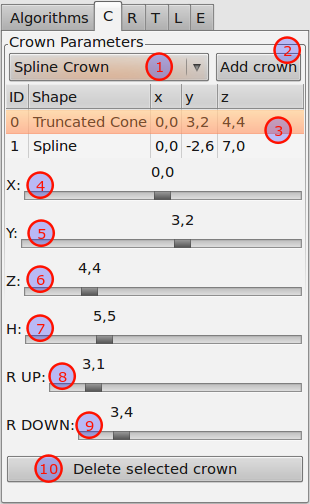
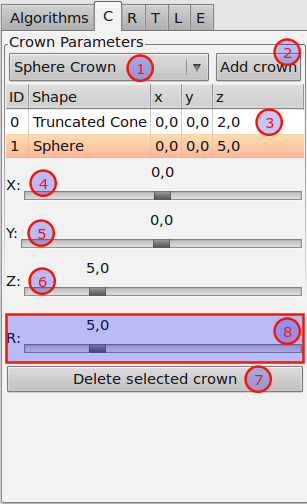
paper poprawki :)

diff --git a/latex/paper/04_dokumentacja.tex b/latex/paper/04_dokumentacja.tex
@@ -9,7 +9,7 @@
 
 \section{Eksport modelu}
 Ponieważ format danych używany w programie nie jest zgodny z powszechnie uznanymi formatami modeli trójwymiarowych, aby zachować kompatybilność należy przeprowadzić eksport modelu do 
-formatu zewnętrznego. Format .OBJ zgodnie wymaganiami jest obsługiwany przez program Blender.
+formatu zewnętrznego. Format .OBJ zgodnie z wymaganiami jest obsługiwany przez program Blender.
 Został on opracowany przez firmę Wavefront Technologies i ze względu na swoją prostotę stał się szybko
 popularny wśród programów do obróbki grafiki trójwymiarowej. Na format składa się plik tekstowy z rozszerzeniem .obj 
 zawierający opis geometrii obiektu. Dodatkowo format przewiduje odwołanie do pliku z rozszerzeniem .mtl zawierającym
@@ -52,14 +52,14 @@ się w kolejnych liniach mogących zawierać:
 \subsection{Procedura eksportu}
 Model drzewa jest eksportowany w dwóch etapach, jako dwie osobne grupy jednego obiektu. Pierwszą grupę stanowi pień drzewa, natomiast drugą jego liście.
 Pozwala to na użycie różnych tekstur dla tych elementów drzewa. Program grupuje współrzędne wierzchołków i tekstur by zmniejszyć rozmiar tworzonego pliku, a następnie
-zapisuje je do pliku \{models/tree0.obj\}. Dodatkowo program tworzy plik \{models/tree0.mtl\} zawierający opis materiałów i ścieżki do tekstur. 
+zapisuje je do pliku \{models/tree0.obj\}. Dodatkowo program tworzy plik \{models/tree0.mtl\} zawierający opis materiałów i ścieżek do tekstur. 
 \section{Opis interfejsu użytkownika}
 
 \subsection{Okno główne}
 \includegraphics[width=120mm]{images/gui/main_window.png}
 \begin{enumerate}
-	\item {Podgląd wygenerowanego drzewa.}
-	\item {Toolbar.}
+	\item {Podgląd wygenerowanego modelu drzewa.}
+	\item {Przybornik.}
 	\item {Panel z ustawieniami generatora.}
 \end{enumerate}
 
@@ -73,20 +73,20 @@ zapisuje je do pliku \{models/tree0.obj\}. Dodatkowo program tworzy plik \{model
 	\item {Nieaktywna korona.}
 \end{enumerate}
 
-\subsection{Toolbar}
+\subsection{Przybornik}
 \includegraphics[width=50mm]{images/gui/toolbar.png}
 \begin{enumerate}
-	\item {Resetuj konfigurację.}
-	\item {Wczytaj konfigurację.}
-	\item {Zapisz konfigurację.}
-	\item {Generuj nowy model.}
-	\item {Odśwież model.}
-	\item {Eksportuj model.}
+	\item {Resetuj konfigurację - ustawia domyślne wartości wszystkich parametrów.}
+	\item {Wczytaj konfigurację - wczytuje konfigurację programu z pliku. }
+	\item {Zapisz konfigurację - zapisuje konfigurację do pliku.}
+	\item {Generuj nowy model - tworzy nowy model na podstawie parametrów widocznych w zakładce \textit{Algorithms}, \textit{C}(ustawienia koron), \textit{T}(ustawienia dotyczące modelowania pnia), \textit{L}(ustawienia liści).}
+	\item {Odśwież model - model jest uaktualniany korzystając z parametrów zawartych w zakładce \textit{L} oraz \textit{T}. Nie jest wywoływany algorytm generowania drzewa.}
+	\item {Eksportuj model - model drzewa jest eksportowany do formatu OBJ. Tworzone są dwa pliki \textit{models/tree0.obj} oraz \textit{models/tree0.mtl}.}
 \end{enumerate}
 
 \subsection{Opcje algorytmu}
 \begin{tabular}{lr}
-\parbox[b]{95mm}{
+\parbox[c]{95mm}{
 \begin{enumerate}
 	\item {Wybór algorytmu generującego drzewo.}
 	\item {Ziarno generatora pseudo-losowego.}
@@ -96,31 +96,77 @@ zapisuje je do pliku \{models/tree0.obj\}. Dodatkowo program tworzy plik \{model
 	\item {Kill distance - odległość od atraktora do węzła drzewa po osiągnięciu której atraktor jest usuwany.}
 \end{enumerate}
 } &
-\includegraphics[width=35mm]{images/gui/algorithms_panel.png} \\
+\parbox[c]{35mm}{
+\includegraphics[width=35mm]{images/gui/algorithms_panel.png}
+}\\
 \end{tabular}
 
 
 
 \subsection{Opcje korony}
 \begin{tabular}{lr}
-\parbox[b]{95mm}{
+\parbox[c]{95mm}{
 \begin{enumerate}
-	\item {Typ korony (sfera, ścięty stożek, bryła obrotowa oparta o krzywą sklejalną trzeciego stopnia).}
-	\item {Dodaj koronę.}
-	\item {Lista dodanych koron.}
+	\item {Typ korony - do wyboru: sfera, ścięty stożek, \textit{spline crown}.}
+	\item {Dodaj koronę - dodaje koronę do generatora.}	
+	\item {Lista dodanych koron - koron może być więcej niż 1. Atraktory są rozmieszczane we wszystkich koronach z listy(w każdej jest identyczna liczba atraktorów równa $liczba\_atraktorów/liczba\_koron$).}
 	\item {Współrzędna X wybranej korony.}
 	\item {Współrzędna Y wybranej korony.}
 	\item {Współrzędna Z wybranej korony.}
-	\item {TODO widok dla każdego typu korony}
+	\item {Usuń wybraną koronę.}
+	\item {Parametry charakterystyczne dla każdego typu korony.}
 \end{enumerate}
 } &
-\includegraphics[width=35mm]{images/gui/crown_panel.png} \\
+\parbox[c]{35mm}{
+\includegraphics[width=35mm]{images/gui/crown_panel.png}
+}\\
 \end{tabular}
 
+\subsubsection{Sfera}
+\begin{tabular}{lr}
+\parbox[c]{95mm}{
+\begin{enumerate}
+	\item {Promień sfery.}
+\end{enumerate}
+} &
+\parbox[c]{35mm}{
+\includegraphics[width=35mm]{images/gui/sphere_crown.png}
+}\\
+\end{tabular}
+
+\subsubsection{Ścięty stożek}
+\begin{tabular}{lr}
+\parbox[c]{95mm}{
+\begin{enumerate}
+	\item {Wysokość.}
+	\item {Promień górnej podstawy.}
+	\item {Promień dolnej podstawy.}
+\end{enumerate}
+} &
+\parbox[c]{35mm}{
+\includegraphics[width=35mm]{images/gui/truncated_cone_crown.png}
+}\\
+\end{tabular}
+
+\subsubsection{\textit{Spline crown}}
+\begin{tabular}{lr}
+\parbox[c]{95mm}{
+\begin{enumerate}
+	\item {Lista z węzłami interpolującymi.}
+	\item {Dodaj węzeł interpolujący.}
+	\item {Usuń węzeł interpolujący.}
+	\item {Współrzędna X wybranego węzła interpolującego.}
+	\item {Współrzędna Y wybranego węzła interpolującego.}
+\end{enumerate}
+} &
+\parbox[c]{35mm}{
+\includegraphics[width=35mm]{images/gui/spline_crown.png}
+}\\
+\end{tabular}
 
 \subsection{Opcje wyświetlania}
 \begin{tabular}{lr}
-\parbox[b]{95mm}{
+\parbox[c]{95mm}{
 \begin{enumerate}
 	\item {Wyświetla dodane korony.}
 	\item {Wyświetla liście.}
@@ -128,27 +174,39 @@ zapisuje je do pliku \{models/tree0.obj\}. Dodatkowo program tworzy plik \{model
 	\item {Wyświetla trawę.}
 \end{enumerate}
 } &
-\includegraphics[width=35mm]{images/gui/rendering_panel.png}\\
+\parbox[c]{35mm}{
+\includegraphics[width=35mm]{images/gui/rendering_panel.png}
+}\\
 \end{tabular}
 
 \subsection{Opcje pnia}
+
+\begin{threeparttable}
+
 \begin{tabular}{lr}
-\parbox[b]{95mm}{
+\parbox[c]{95mm}{
 \begin{enumerate}
-	\item {Współczynnik $radius factor$. Wpływa na grubość pnia przy łączeniu gałęzi.}
-	\item {Współczynnik $a$.}
-	\item {Współczynnik $m$.}
+	\item {Współczynnik $radius factor$. Wpływa na grubość pnia przy łączeniu gałęzi. $\tnote{1}$}
+	\item {Współczynnik $a$.$\tnote{1}$}
+	\item {Współczynnik $m$.$\tnote{1}$}
 	\item {Liczba punktów tworzących segment.}
 	\item {Liczba tekstur potrzebną do owinięcia pnia.}
 	\item {Stosunek rozmiaru tekstury do odległości mierzonej wzdłuż pnia.}
 \end{enumerate}
 } &
-\includegraphics[width=35mm]{images/gui/trunk_panel.png}\\
+\parbox[c]{35mm}{
+\includegraphics[width=35mm]{images/gui/trunk_panel.png}
+}\\
 \end{tabular}
+\begin{tablenotes}
+	\item[1] Wpływ współczynników na wygląd pnia dokładnie opisany w podrozdziale \ref{subsec:node_model} na stronie \pageref{subsec:node_model}.
+\end{tablenotes}
+
+\end{threeparttable}
 
 \subsection{Opcje liści}
 \begin{tabular}{lr}
-\parbox[b]{95mm}{
+\parbox[c]{95mm}{
 \begin{enumerate}
 	\item {Liczba liści doczepianych do wygenerowanego modelu.}
 	\item {Lista rodzajów liści.}
@@ -158,7 +216,9 @@ zapisuje je do pliku \{models/tree0.obj\}. Dodatkowo program tworzy plik \{model
 	\item {Dodawanie nowego typu liścia.}
 \end{enumerate}
 } &
-\includegraphics[width=35mm]{images/gui/leaves_panel.png}\\
+\parbox[c]{35mm}{
+\includegraphics[width=35mm]{images/gui/leaves_panel.png}
+}\\
 \end{tabular}
 
 
@@ -166,18 +226,20 @@ zapisuje je do pliku \{models/tree0.obj\}. Dodatkowo program tworzy plik \{model
 
 \subsection{Edytor}
 \begin{tabular}{lr}
-\parbox[b]{95mm}{
+\parbox[c]{95mm}{
 \begin{enumerate}
-	\item {Tryb zaznaczania gałęzi - odpowiednio: cała gałęź, od punktu do końca gałęzi oraz od punktu do punktu}
-	\item {Zastosuj dla wszystkich dzieci - edycji podlegają też gałęzie wychodzące z edytowanego fragmentu}
-	\item {Przycinanie gałęzi}
-	\item {Wygładzanie gałęzi (zwiększana jest rozdzielczość gałęzi)}
-	\item {Zmniejszanie gałęzi}
-	\item {Dociążanie gałęzi}
-	\item {Działanie przeciwne do opcji 6}
+	\item {Tryb zaznaczania gałęzi - odpowiednio: cała gałęź, od punktu do końca gałęzi oraz od punktu do punktu.}
+	\item {Zastosuj dla wszystkich dzieci - edycji podlegają też gałęzie wychodzące z edytowanego fragmentu i dalej rekursywnie wszyscy potomkowie.}
+	\item {Przycinanie gałęzi.}
+	\item {Wygładzanie gałęzi - gałęzie są modyfikowane przy użyciu algorytmu Chaikina.}
+	\item {Zmniejszanie rozdzielczości gałęzi - co drugi węzeł gałęzi jest usuwany. Gałęzie wychodzące z usuwanych węzłów są przesuwane do węzłów położonych niżej.}
+	\item {Dociążanie gałęzi - od współrzędnej $Z$ danego węzła jest odejmowana pewna stała, która rośnie wprost proporcjonalnie do odległości węzła od osi drzewa.}
+	\item {Odciązanie gałęzi - analogicznie do opcji 6.}
 \end{enumerate}
 } &
-\includegraphics[width=35mm]{images/gui/editor_panel.png} \\
+\parbox[c]{35mm}{
+\includegraphics[width=35mm]{images/gui/editor_panel.png}
+}\\
 \end{tabular}
 
 \section{Kompilacja projektu}

diff --git a/latex/paper/03_teoria.tex b/latex/paper/03_teoria.tex
@@ -7,7 +7,7 @@ Dynamiczny rozwój grafiki komputerowej obserwujemy od roku 1950 kiedy to w Mass
 komputer wyposażony w grafoskop. Obecnie większość użytkowników nie potrafi sobie wyobrazić komputera bez graficznego interfejsu.
 Coraz większe możliwości nowoczesnych komputerów są motorem napędowym rozmaitych badań nad komputerowymi modelami świata rzeczywistego.
 
-Prekursorem w dziedzinie wizualizacji drzew był polski matematyk Stanisław Ulam, przedstawiajac w 1962r. \cite{ulam} drzewo jako samoorganizującą się
+Prekursorem w dziedzinie wizualizacji drzew był polski matematyk Stanisław Ulam, przedstawiając w 1962r. \cite{ulam} drzewo jako samoorganizującą się
 strukturę. Jego model wykorzystujący automaty komórkowe opierał się na rywalizacji węzłów  drzewa o przestreń.
 Honda zaproponował w 1971r. modelowanie drzew jako stuktury rekursywnej opisanej
 zbiorem parametrów takich jak kąt rozgałęzień, czy stosunek długości między kolejnymi poziomami rekurencji \cite{honda}.
@@ -20,7 +20,7 @@ przedstawiająca proces modelowania klonu. Podejście do tematu możemy podzieli
 \item od szczegółu do ogółu, czyli opisanie pewnym zbiorem parametrów budowy drzewa
 \end{itemize}
 Problem stworzenia modelu drzewa możemy podzielić na stworzenie modeli jego składowych np. gałęzi, kory, liści, czy kwiatów i późniejsze
-ich połączenie w jedną całość. Na chwilę obecną istnieją zaawansowane metody generowania zarówno całych drzew, jak i poszczególnych jego części.
+ich połączenie w całość. Na chwilę obecną istnieją zaawansowane metody generowania zarówno całych drzew, jak i poszczególnych jego części.
 
 \section{Generowanie struktury drzewa}
 Generowanie drzewa przebiega w następujących etapach:
@@ -91,6 +91,9 @@ Rośliny, w szczególności drzewa, są bardzo złożonymi strukturami. Projektu
 
 
 \subsection{Model węzła}
+
+\label{subsec:node_model}
+
 Węzeł charakteryzuje się dwoma parametrami: położeniem(P) oraz promieniem(R). Na ich podstawie wyliczany jest segment, który składa się z przynajmniej 3 punktów leżących na okręgu o środku w punkcie P i promieniu R. Wektor normalny do płaszczyzny tworzonej przez punkty segmentu oraz punkt P jest wyliczany w następujący sposób: $\vec{n}=\frac{\vec{AP}}{|\vec{AP}|}+\frac{\vec{PB}}{|\vec{PB}|}$, gdzie A - poprzednik P; B - następnik P. Jeśli węzeł A lub B nie istnieje, to odpowiednio pierwszy lub drugi składnik sumy przyjmuje wartość 0.
 
 Promień danego węzła jest wyznaczany w nastepujący sposób:
@@ -148,7 +151,7 @@ Wektor normalny jest wyznaczany na podstawie położenia liścia względem punkt
 
 
 
-Liście są rozkładane są na gałęziach w sposób losowy, przy czym rozkład nie jest równomierny. Prawdopodobieństwo umiejscowienia liścia na końcu gałęzi jest znacznie większe niż na początku. Efekt ten uzyskaliśmy w następujący sposób: $node\_id = \lceil\sqrt{rand()}*(nodes\_length-1)\rceil$.
+Liście są rozkładane na gałęziach w sposób losowy, przy czym rozkład nie jest równomierny. Prawdopodobieństwo umiejscowienia liścia na końcu gałęzi jest znacznie większe niż na początku. Efekt ten uzyskaliśmy w następujący sposób: $node\_id = \lceil\sqrt{rand()}*(nodes\_length-1)\rceil$.
 
 \begin{description}
 	\item[node\_id] indeks węzła w danej gałęzi, do którego zostanie doczepiony liść
@@ -216,14 +219,31 @@ Algorytm Chaikina w podstawowej wersji dla każdego punktu do wyznaczenia wierzc
 	\label{chaikin_branch}
 \end{center}
 
-\subsection{Korona - TODO}
-Algorytm kolonizacyjny w pierwszym kroku rozmieszcza atraktory wewnątrz danej podprzestrzenii, która to determinuje swoim kształtem wygląd wygenerowango drzewa. Wybór typu korony został ograniczony do 3 kształtów.
-\begin{itemize}
-	\item{sfera - możliwość zmiany promienia}
-	\item{ścięty stożek - możliwość zmiany wysokości oraz promiania dolnej i górnej podstawy}
-	\item{\textit{spline crown} - korona tworzona na skutek obrotu krzywej sklejalnej trzeciego stopnia wokół osi OX}
-\end{itemize}
+\subsection{Korona}
+Algorytm kolonizacyjny w pierwszym kroku rozmieszcza atraktory wewnątrz danej podprzestrzenii, która to determinuje swoim kształtem wygląd wygenerowango drzewa. Wybór typu korony został ograniczony do 3 kształtów. Każdy z typów jest opisany przez położenie w przestrzenii oraz właściwości charakterystyczne dla niego.
 
+\begin{table}[h]
+\begin{center}
+\begin{threeparttable}
+\begin{tabular}{| l | l |}
+	\hline
+	\textbf{Typ} & \textbf{Właściwości}\\
+	\hline
+	sfera & promień\\
+	\hline
+	ścięty stożek & promień dolny, promień górny, wysokość\\
+	\hline
+	\textit{spline crown\tnote{1}} & węzły interpolacji\\
+	\hline
+\end{tabular}
+
+\begin{tablenotes}
+	\item[1] korona tworzona przez obrót funkcji sklejalnej trzeciego stopnia wokół OX
+\end{tablenotes}
+\end{threeparttable}
+\end{center}
+\caption{Typy koron wraz z charakterystycznymi właściwościami.}
+\end{table}
 \begin{center}
 	\includegraphics[width=130mm]{images/model/crowns.png}
 	\captionof{figure}{Typy koron (sfera, ścięty stożek, \textit{spline crown})}

diff --git a/latex/paper/01_wstep.tex b/latex/paper/01_wstep.tex
@@ -7,10 +7,10 @@ się grafiką komputerową.
 
 Ręczne modelowanie skomplikowanej struktury drzew jest bardzo czasochłonne,
 dlatego też tworzenie modeli przy użyciu naszej aplikacji ma być przede wszystkim łatwe i szybkie.
-W idealnym przypadku stworzenie prostego modelu drzewa możliwe byłoby w kilkanaście sekund. Ponieważ większość
-grafików komputerowych posiada swój ulubiony program do pracy, nasza aplikacja powinna zapewnić
+W idealnym przypadku stworzenie prostego modelu drzewa ma być możliwe w kilkanaście sekund. Ponieważ większość
+grafików komputerowych posiada swój ulubiony program do pracy, nasza aplikacja powinna zapewniać
 łatwy sposób na przeniesienie wygenerowanego modelu do innych narzędzi, nawet tych jeszcze nie istniejących.
-Dzięki temu utworzony model może być poddany dalszej obróbce, przy pomocy bardziej zaawansowanych narzędz. Wszystko po to, aby uzyskać
+Dzięki temu utworzony model może być poddany dalszej obróbce, przy pomocy bardziej zaawansowanych narzędzi. Wszystko po to, aby uzyskać
 efekt bliższy oczekiwaniom użytkownika.
 \\ \indent Narzędzie może znaleźć zastosowanie podczas tworzenia gier, animacji, wizualizacji architektonicznych, map trójwymiarowych a nawet w celach dydaktycznych.
 
@@ -20,7 +20,7 @@ efekt bliższy oczekiwaniom użytkownika.
 Narzędzie ma pozwalać na łatwe tworzenie trójwymiarowych modeli drzew, które następnie mogą być zapisane
 w formacie obsługiwanym przez program Blender. Tworzenie modelu ma przebiegać w dwóch etapach:
 \begin{itemize}
-	\item{Automatyczne wygenerowanie modelu na podstawie parametrół ustalonych przez użytkownika}
+	\item{Automatyczne wygenerowanie modelu na podstawie parametrów ustalonych przez użytkownika}
 	\begin{itemize}
 		\item{kształt drzewa}
 		\item{liczba gałęzi}

diff --git a/latex/paper/02_specyfikacja.tex b/latex/paper/02_specyfikacja.tex
@@ -1,7 +1,7 @@
 \chapter{Specyfikacja wymagań}
 Użytkownikiem aplikacji mają być osoby posiadające podstawową wiedzę dotyczącą grafiki trójwymiarowej,
 chcące łatwo i szybko stworzyć model drzewa i wykorzystać go do swoich celów. Z powyższego założenia
-wynika istotna kwestia, mianowicie obsługa narzędzia musi byc prosta i intuicyjna. \\
+wynika istotna kwestia, mianowicie obsługa narzędzia musi być prosta i intuicyjna. \\
 
 \section{Wymagania funkcjonalne} 
 Poniżej zebrano wymagania funkcjonalne aplikacji.
@@ -44,12 +44,12 @@ Poniżej zebrano wymagania funkcjonalne aplikacji.
 \section{Ograniczenia aplikacji}
 Ponieważ generowanie modelu drzewa jest tematem bardzo szerokim, podczas projektowania
 aplikacji przyjęto pewne założenia ograniczające jego funkcjonalność. Było to niezbędne ze
-względu na krótki czas na realizację projektu.
+względu na krótki czas realizacji projektu.
 
 Możliwości aplikacji ograniczone są do:
 \begin{itemize}
 	\item {generowania małych drzew liściastych}
-	\item {rendering modelu jest jedynie poglądowy bez zaawansowanego oświetlenia, wygładzania krawędzi}
+	\item {rendering modelu jest jedynie poglądowy, bez zaawansowanego oświetlenia, wygładzania krawędzi}
 	\item {teksturowanie jest możliwe tylko jedną teksturą jednocześnie}
 	\item {model drzewa nie uwzględnia systemu korzeni, owoców i kwiatów}
 	\item {brak modelu fizycznego drzewa}

diff --git a/latex/paper/05_rezultaty.tex b/latex/paper/05_rezultaty.tex
@@ -6,8 +6,8 @@
 \section{Testy wydajnościowe i jakościowe}
 
 \begin{center}
-	\includegraphics[width=110mm]{images/colonization/time.png}
-	\captionof{figure}{Wpływ liczby liści na wygląd drzewa}
+	\includegraphics[width=110mm]{images/performance.pdf}
+	\captionof{figure}{Czas generowania modelu w zależności od liczby atraktorów.}
 \end{center}
 
 
@@ -32,3 +32,5 @@
 	\includegraphics[width=120mm]{images/renders/smooth.png}
 	\captionof{figure}{Wpływ wygładzania gałęzi na wygląd drzewa}
 \end{center}
+
+

diff --git a/latex/paper/document.tex b/latex/paper/document.tex
@@ -11,6 +11,7 @@
 \usepackage{multicol}
 \usepackage{hhline}
 \usepackage{array}
+\usepackage{threeparttable}
 
 \frenchspacing
 \renewcommand\thesection{\arabic{section}.}
